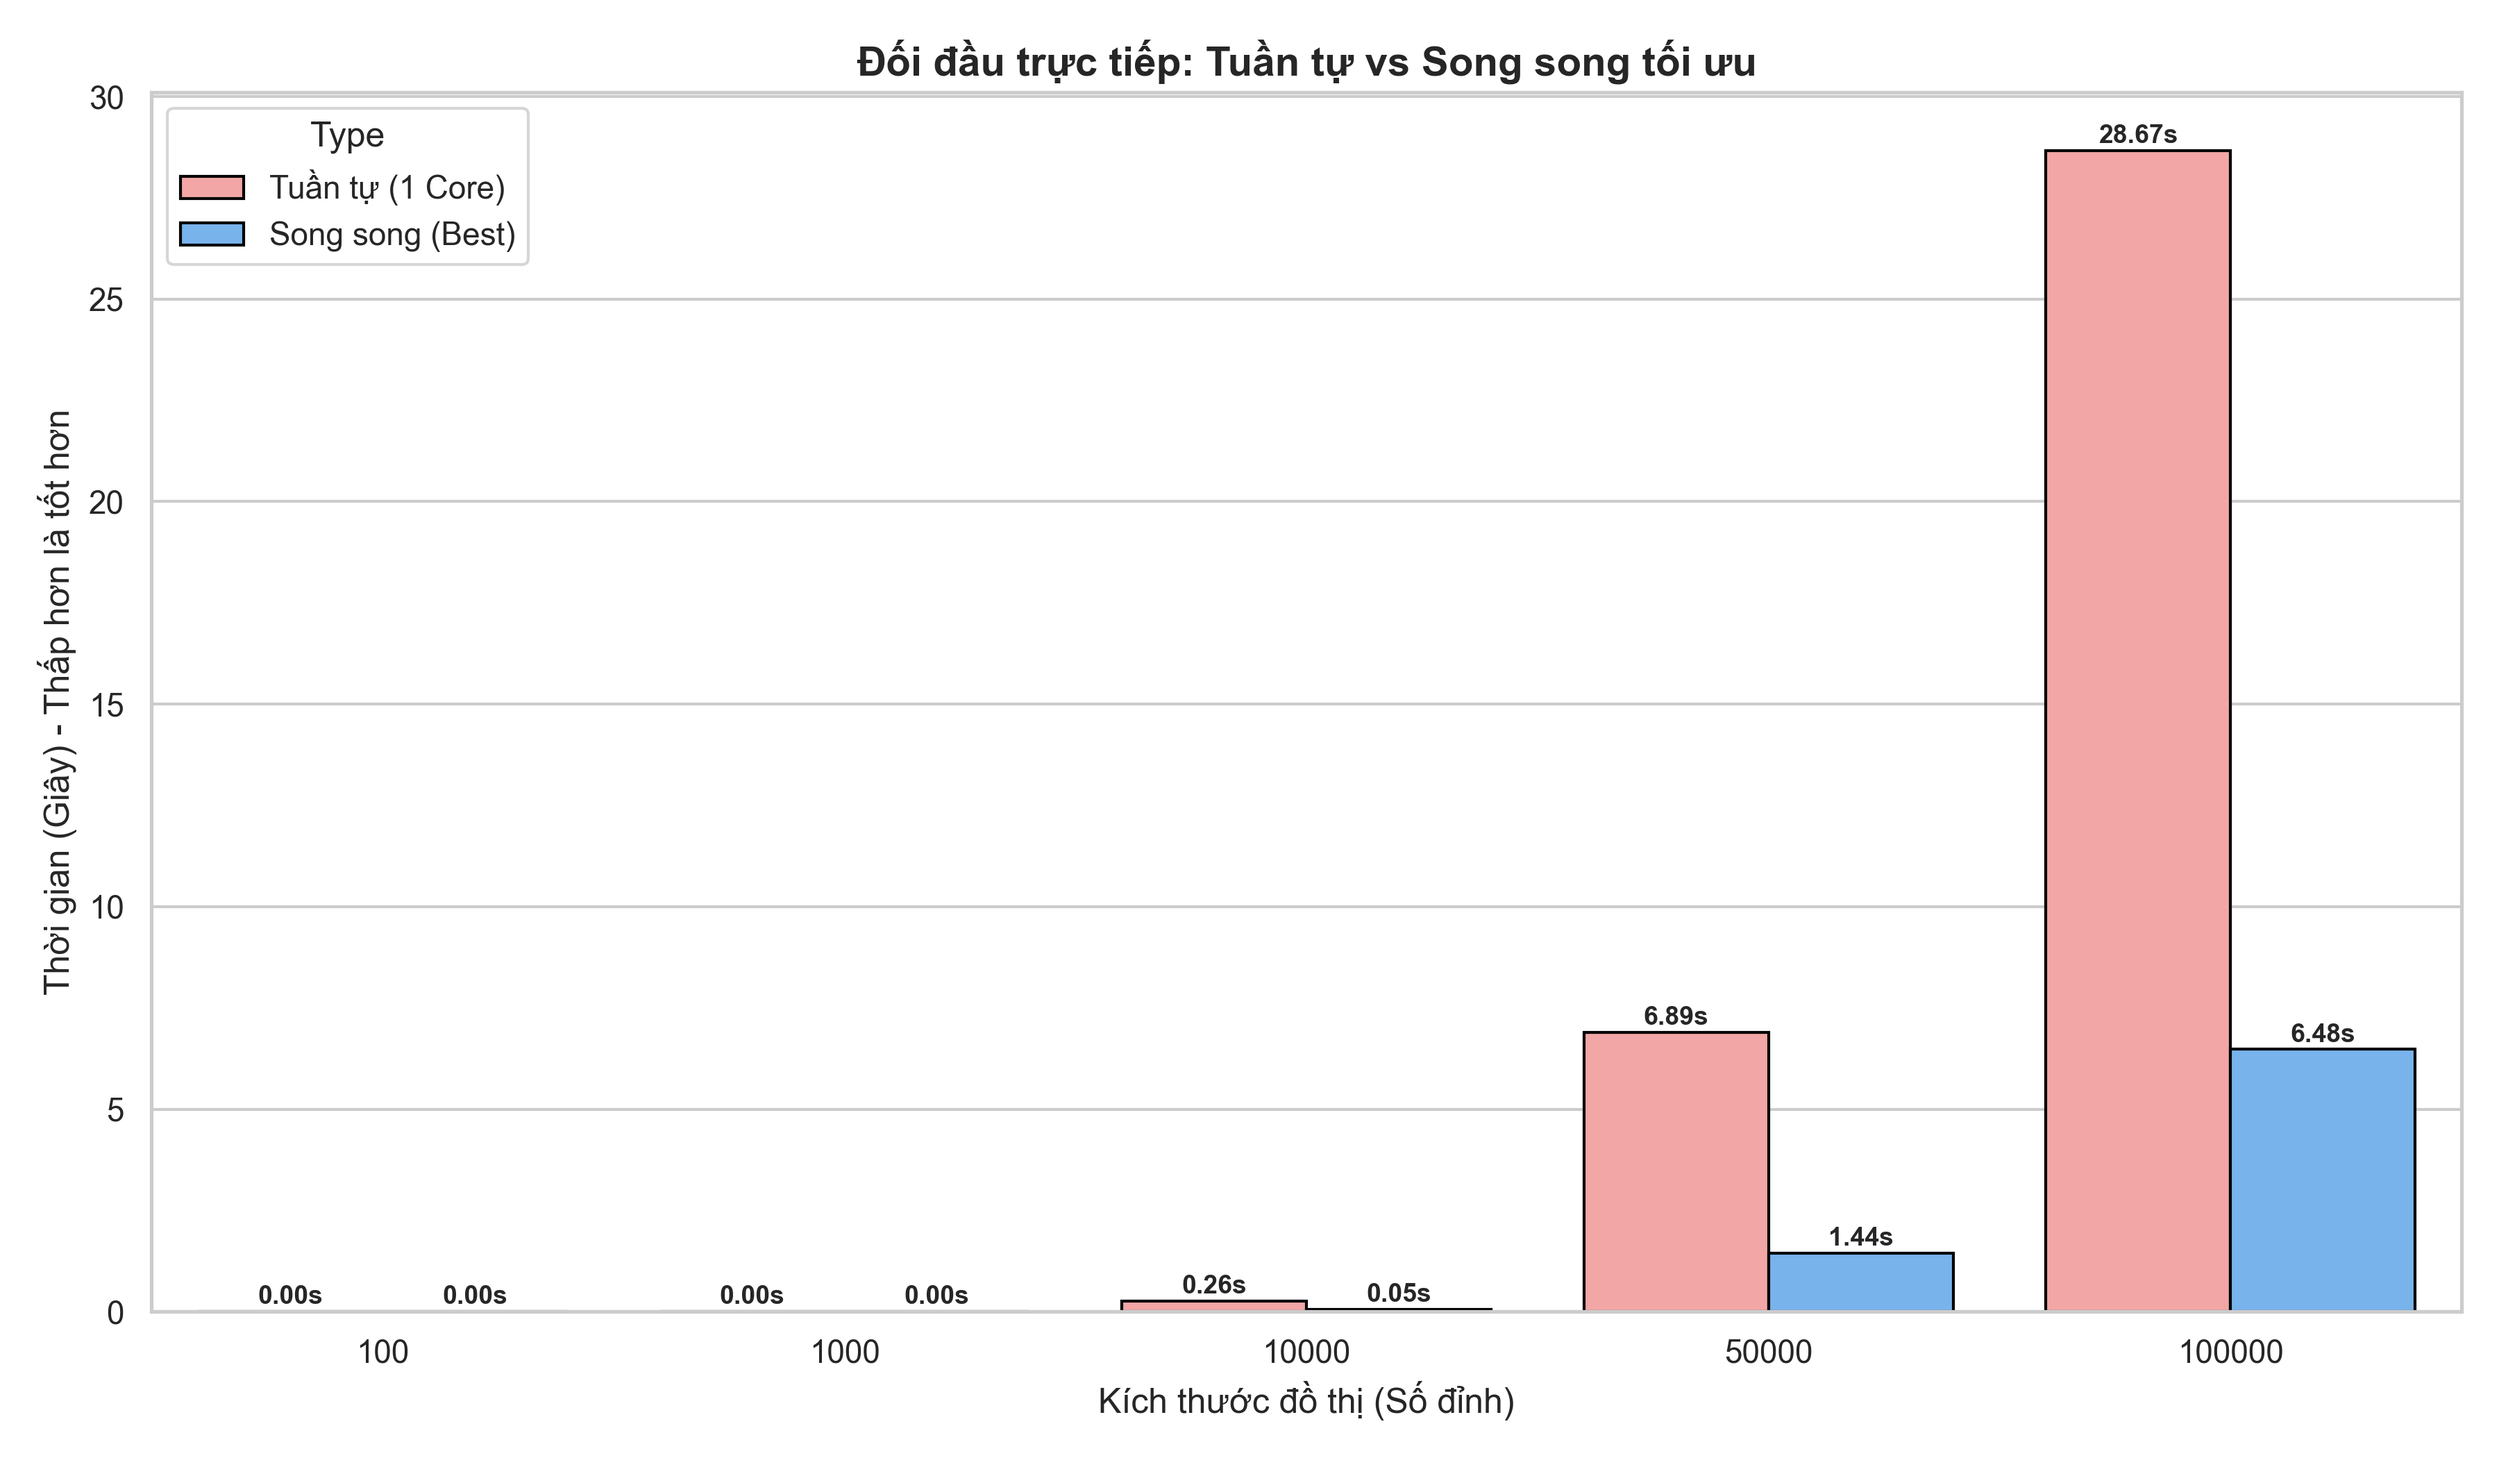
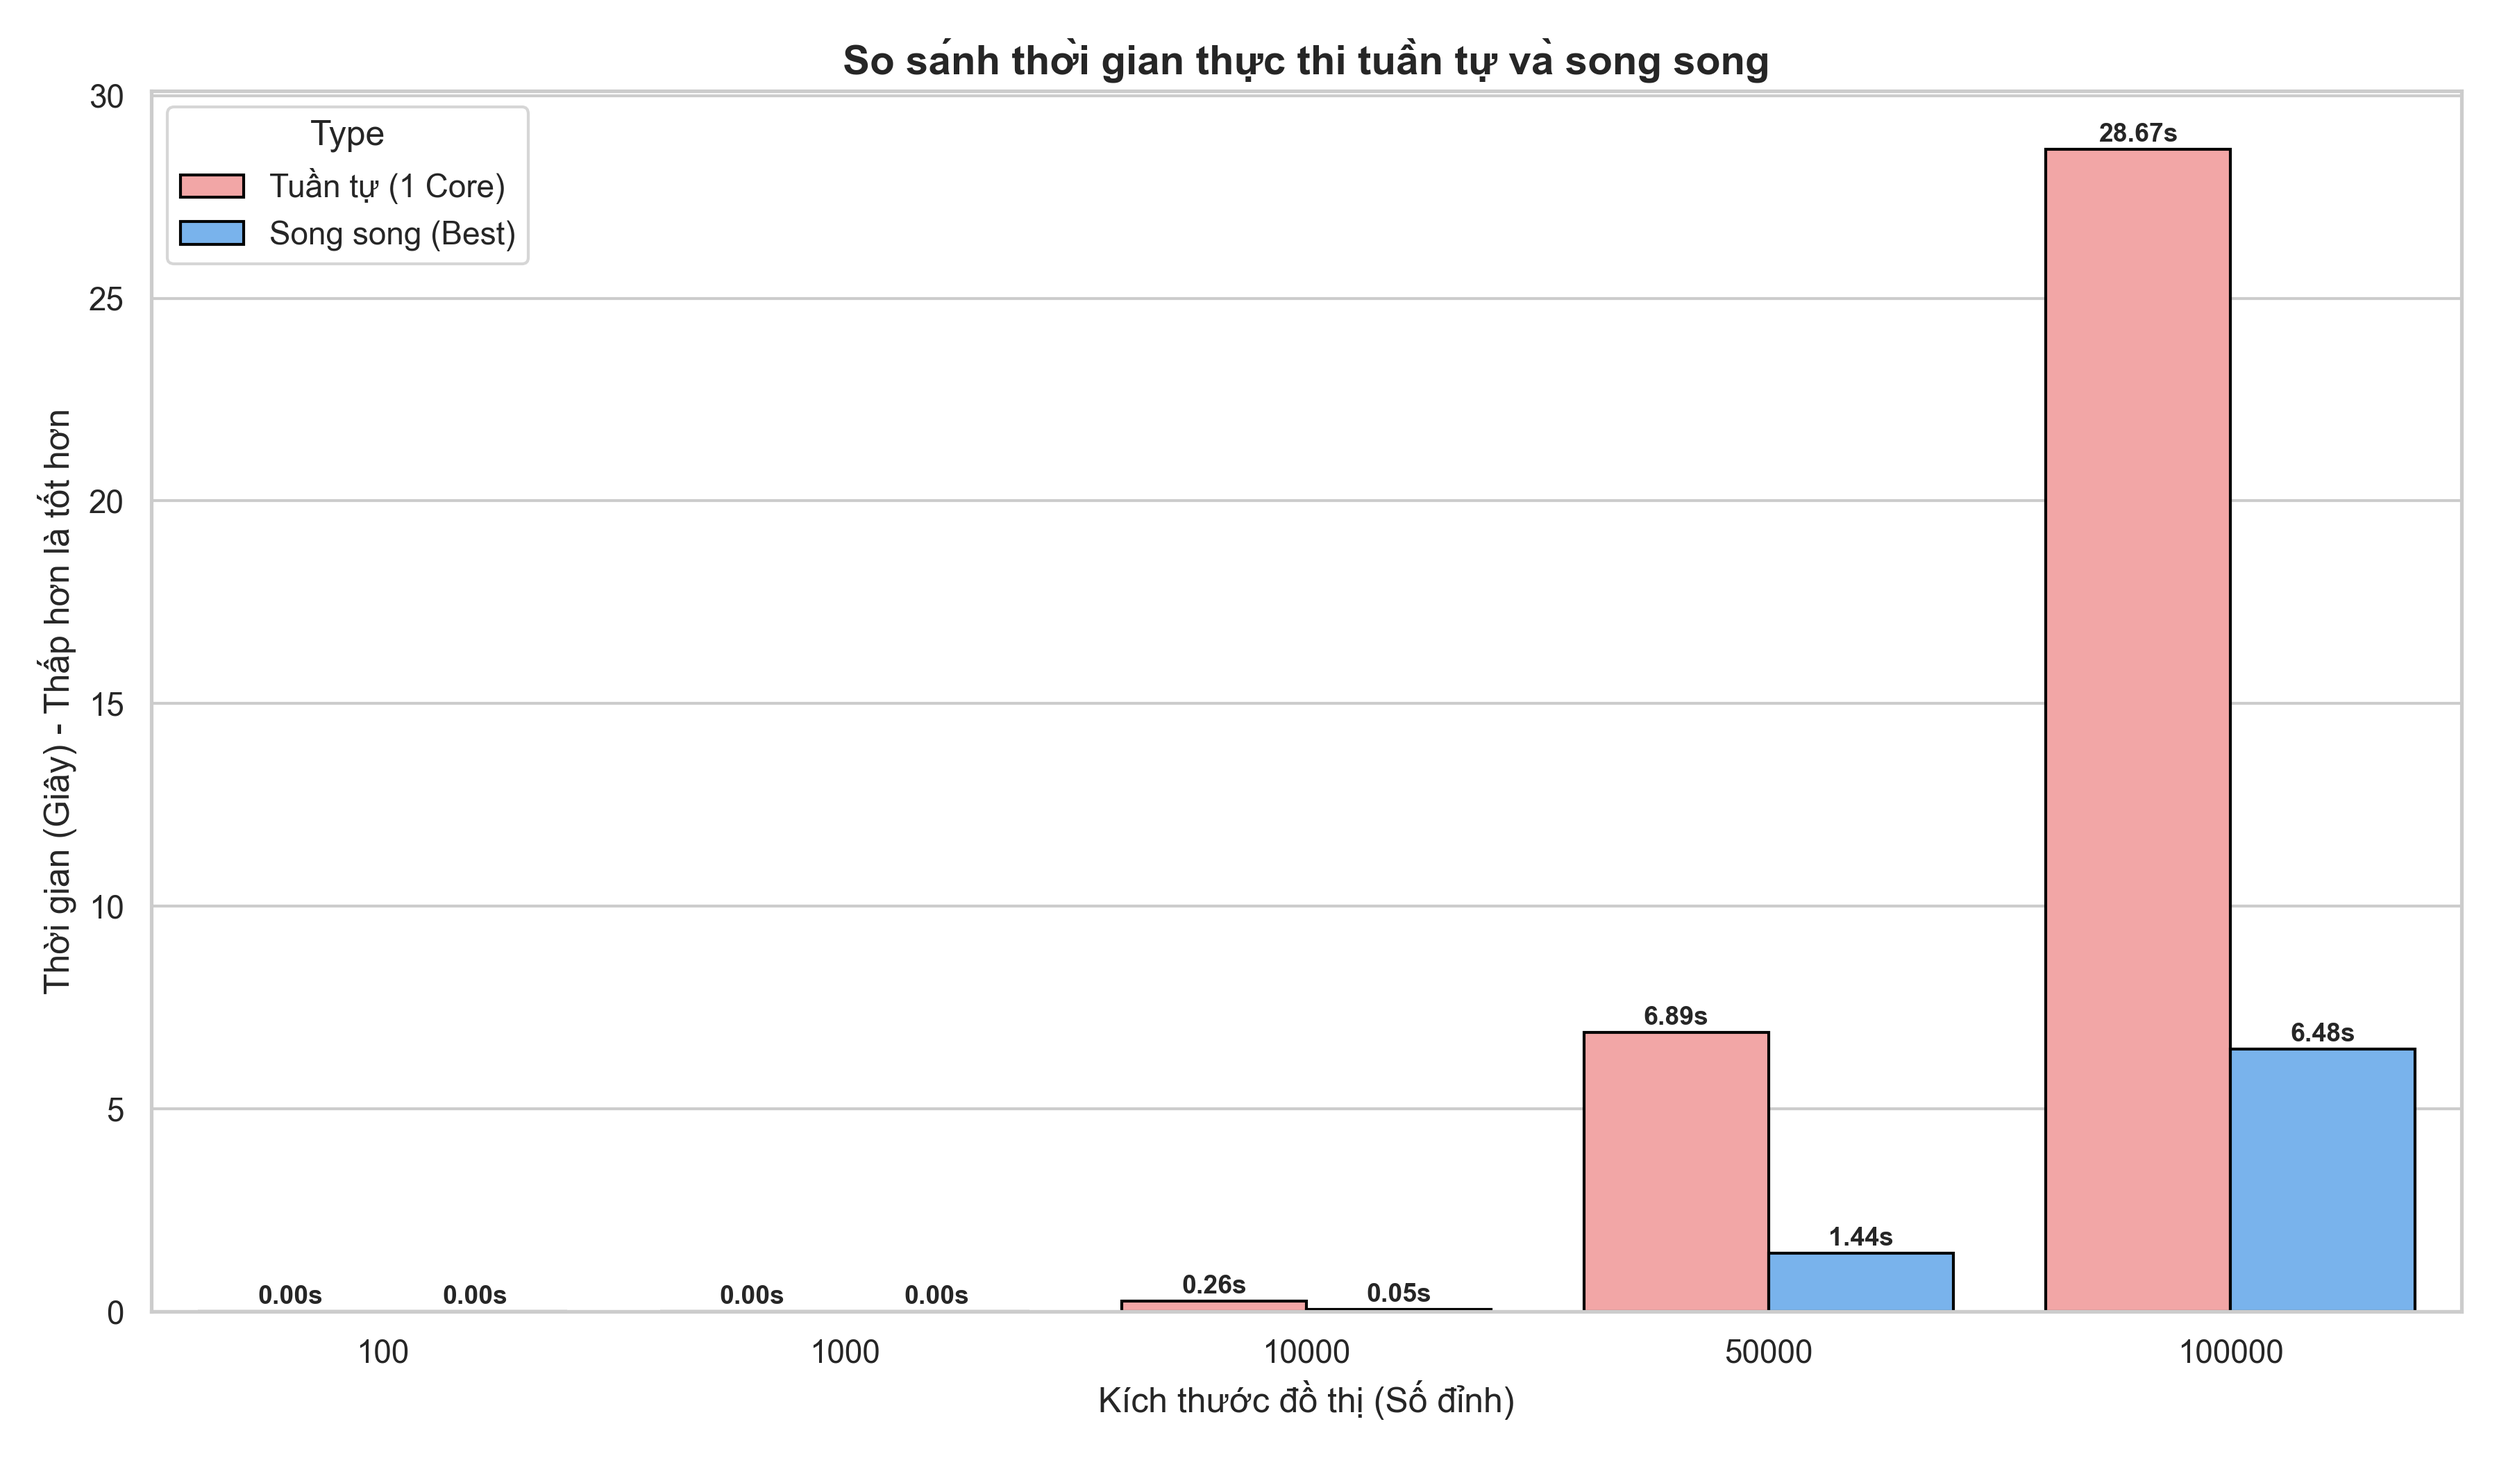
.

diff --git a/draw_plot.py b/draw_plot.py
@@ -85,7 +85,7 @@ def ve_bieu_do_cot_so_sanh():
     # Vẽ biểu đồ cột
     ax = sns.barplot(data=df_compare, x='Nodes', y='Time', hue='Type', palette=['#ff9999', '#66b3ff'], edgecolor='black')
     
-    plt.title('Đối đầu trực tiếp: Tuần tự vs Song song tối ưu', fontsize=14, fontweight='bold')
+    plt.title('So sánh thời gian thực thi tuần tự và song song', fontsize=14, fontweight='bold')
     plt.ylabel('Thời gian (Giây) - Thấp hơn là tốt hơn')
     plt.xlabel('Kích thước đồ thị (Số đỉnh)')
     

diff --git a/ve_bieu_do.py b/ve_bieu_do.py
@@ -58,6 +58,7 @@ sns.lineplot(
 plt.plot([1, 10], [1, 10], 'k--', label='Ideal', linewidth=1.8)
 plt.title('Speedup OpenMP', fontsize=14, fontweight='bold')
 plt.ylabel('Speedup (x)')
+plt.xlabel("Processes")
 plt.xticks(range(1, 11))
 plt.savefig('bieu_do_speedup_omp.png')
 
@@ -85,4 +86,5 @@ plt.plot([1, 10], [1, 10], 'k--', label='Ideal', linewidth=1.8)
 plt.title('Speedup MPI (Apple M4)', fontsize=14, fontweight='bold')
 plt.xticks(range(1, 11))
 plt.ylabel("Speedup (x)")
+plt.xlabel("Processes")
 plt.savefig('bieu_do_speedup_mpi.png')
